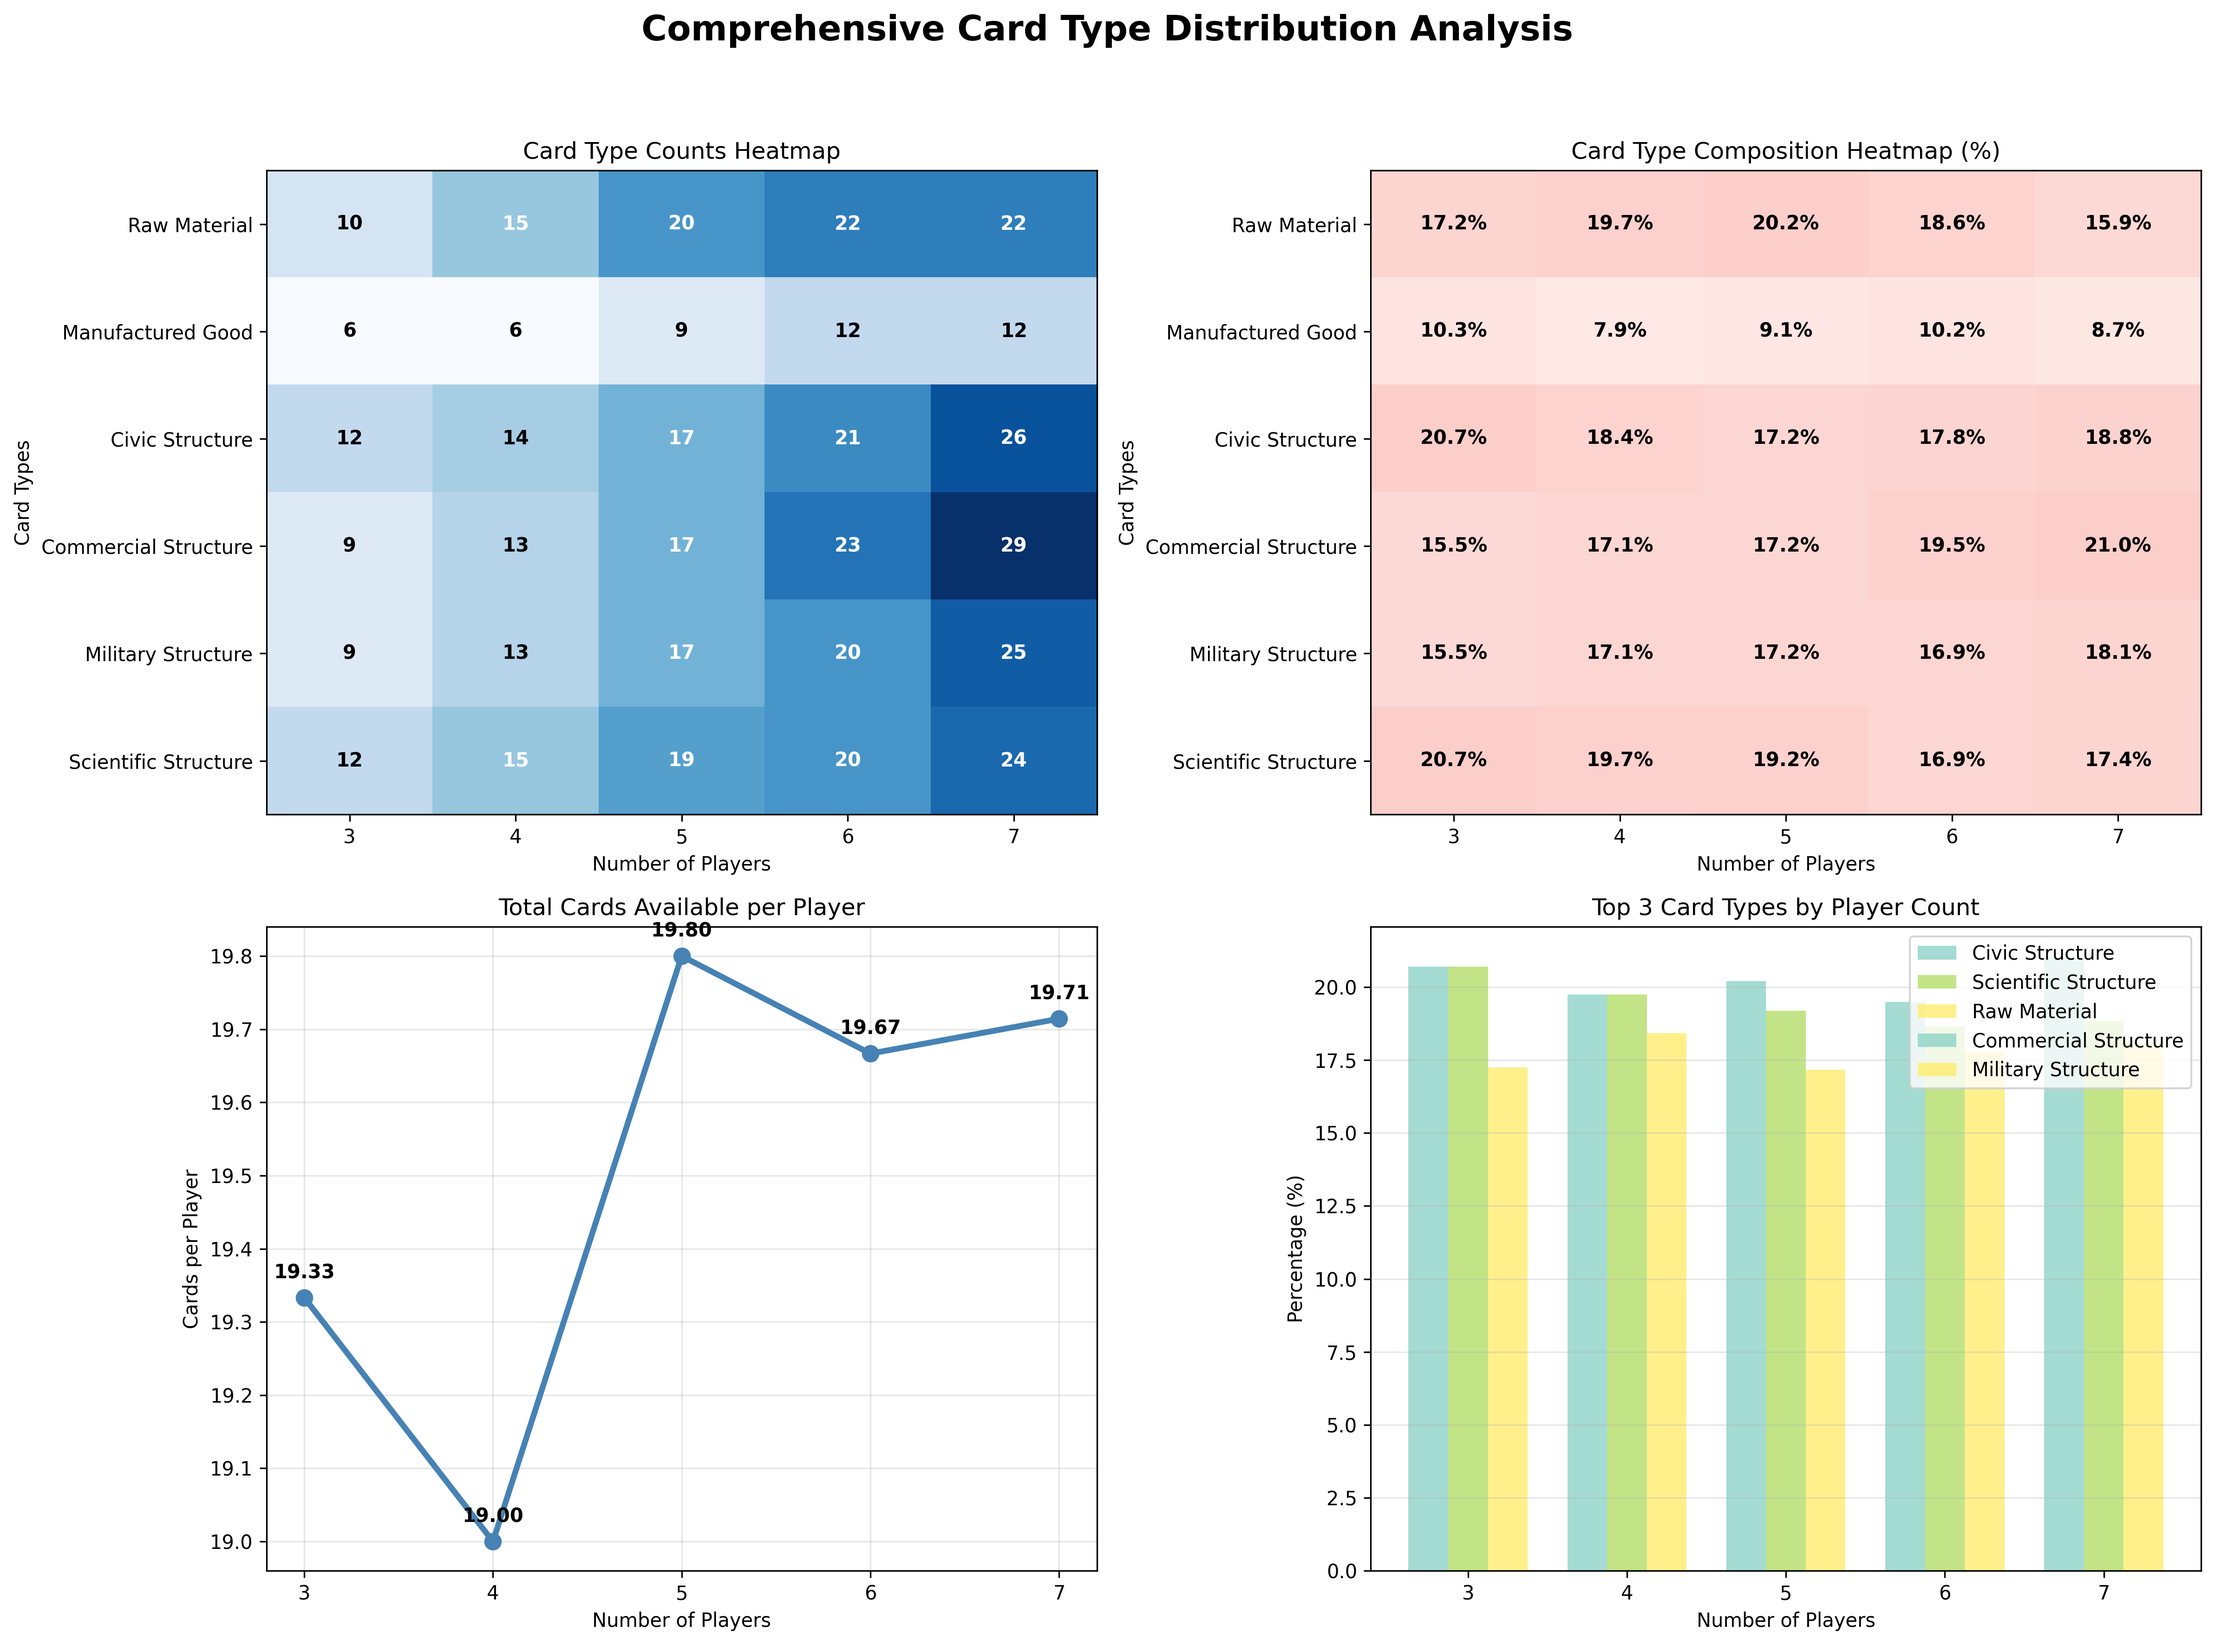
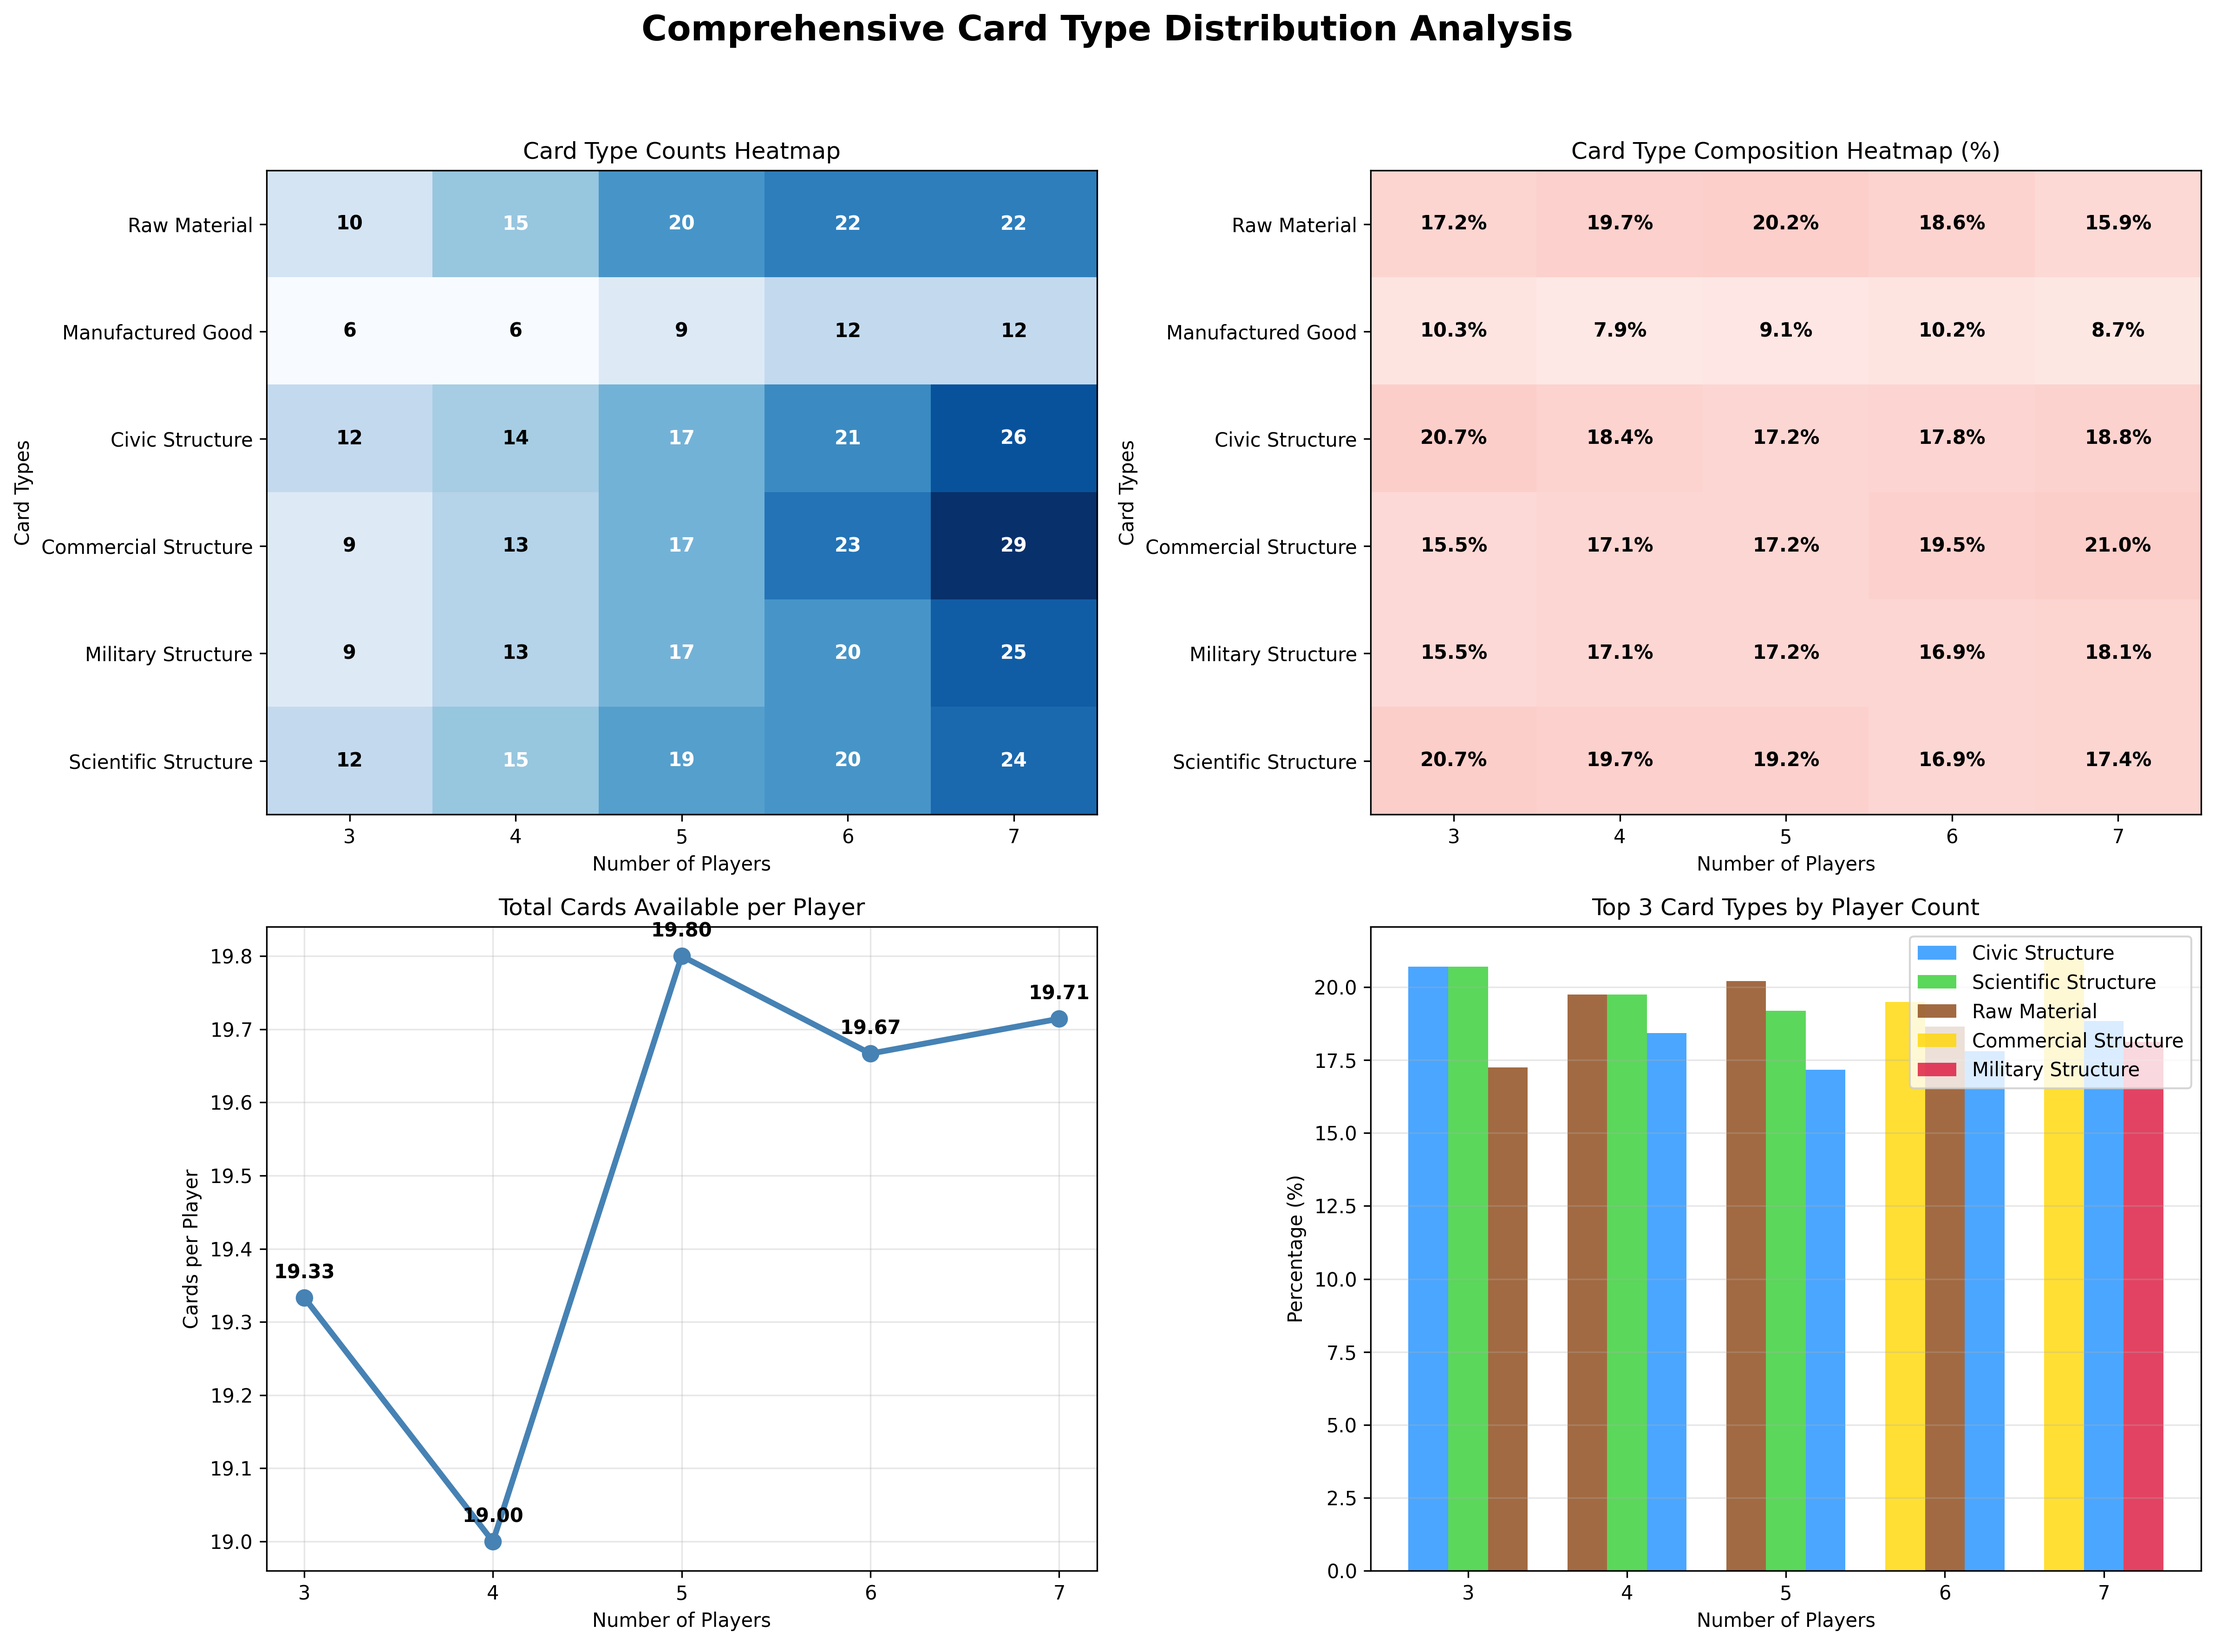
update card balance graphs

Changed region(s): [[0.6249, 0.5588, 0.9998, 0.9625]]

diff --git a/src/stats/card_balance.py b/src/stats/card_balance.py
@@ -191,28 +191,13 @@ def create_card_type_trends_chart(data):
 
 def create_card_type_comparison_chart(data):
     """Create chart comparing card availability per player"""
-    fig, (ax1, ax2) = plt.subplots(1, 2, figsize=(16, 6))
-    fig.suptitle('Card Availability Analysis', fontsize=16, fontweight='bold')
+    fig, ax = plt.subplots(figsize=(12, 8))
+    fig.suptitle('Cards per player by type', fontsize=16, fontweight='bold')
 
     player_counts = data['player_counts']
-    total_cards_per_player = data['total_cards_per_player']
     card_types = data['card_types']
 
-    # Subplot 1: Total cards per player
-    bars = ax1.bar(player_counts, total_cards_per_player,
-                   color='#4682B4', alpha=0.7, width=0.6)
-    ax1.set_xlabel('Number of Players', fontweight='bold')
-    ax1.set_ylabel('Cards per Player', fontweight='bold')
-    ax1.set_title('Average Cards Available per Player')
-    ax1.set_xticks(player_counts)
-    ax1.grid(True, alpha=0.3, axis='y')
-
-    # Add value labels
-    for bar, value in zip(bars, total_cards_per_player):
-        ax1.text(bar.get_x() + bar.get_width() / 2., value + 0.1,
-                 f'{value:.2f}', ha='center', va='bottom', fontweight='bold')
-
-    # Subplot 2: Cards per player by type (grouped bars)
+    # Cards per player by type (grouped bars)
     x = np.arange(len(player_counts))
     width = 0.12
     types = list(card_types.keys())
@@ -223,22 +208,22 @@ def create_card_type_comparison_chart(data):
         offset = offsets[i]
         cards_per_player = [count / players if players > 0 else 0.0
                             for count, players in zip(card_types[card_type_key], player_counts)]
-        bars = ax2.bar(x + offset, cards_per_player, width,
+        bars = ax.bar(x + offset, cards_per_player, width,
                        label=card_type_key.name.replace('_', ' ').title(),
                        color=color, alpha=0.8)
 
         for bar, value in zip(bars, cards_per_player):
             if value > 0.1:  # Only label if significant
-                ax2.text(bar.get_x() + bar.get_width() / 2., value + 0.02,
+                ax.text(bar.get_x() + bar.get_width() / 2., value + 0.02,
                          f'{value:.2f}', ha='center', va='bottom', fontsize=7)
 
-    ax2.set_xlabel('Number of Players', fontweight='bold')
-    ax2.set_ylabel('Cards per Player', fontweight='bold')
-    ax2.set_title('Cards per Player by Type\n(Grouped Bars)')
-    ax2.set_xticks(x)
-    ax2.set_xticklabels(player_counts)
-    ax2.legend(bbox_to_anchor=(1.05, 1), loc='upper left')
-    ax2.grid(True, alpha=0.3, axis='y')
+    ax.set_xlabel('Number of Players', fontweight='bold')
+    ax.set_ylabel('Cards per Player', fontweight='bold')
+    ax.set_title('Cards per Player by Type\n(Grouped Bars)')
+    ax.set_xticks(x)
+    ax.set_xticklabels(player_counts)
+    ax.legend(bbox_to_anchor=(1.05, 1), loc='upper left')
+    ax.grid(True, alpha=0.3, axis='y')
 
     plt.tight_layout(rect=[0, 0, 1, 0.95])
     return fig

diff --git a/doc/results.md b/doc/results.md
@@ -159,6 +159,12 @@ What is an avarage city card type distribution?
 
 This was explored in `card_balance.py`
 
+![card distribution](./../src/stats/assets/card_balance/card_availability.png)
+![card distribution average](./../src/stats/assets/card_balance/average_card_distribution.png)
+
+This shows that an average distribution across all games for every card type is for every city/player to have 3/4 of every card type, with the exception of manufactured goods card, which would be present 1/2 per city/player.
+
+
 ### Card Type Distribution Summary
 
 3 players:
@@ -217,71 +223,13 @@ This was explored in `card_balance.py`
     Scientific Structure: 24 (17.4%)
 
 #### Average Card Distribution per Player (Across All Player Counts)
-  Commercial Structure: 18.20 cards per player
-  Civic Structure: 18.00 cards per player
-  Scientific Structure: 18.00 cards per player
-  Raw Material: 17.80 cards per player
-  Military Structure: 16.80 cards per player
-  Manufactured Good: 9.00 cards per player
-  Total average cards per player: 97.80
-
-### Card Type Distribution Summary ===
-
-3 players:
-  Total cards: 58
-  Cards per player: 19.33
-  Card Type Breakdown:
-    Raw Material: 10 (17.2%)
-    Manufactured Good: 6 (10.3%)
-    Civic Structure: 12 (20.7%)
-    Commercial Structure: 9 (15.5%)
-    Military Structure: 9 (15.5%)
-    Scientific Structure: 12 (20.7%)
-
-4 players:
-  Total cards: 76
-  Cards per player: 19.00
-  Card Type Breakdown:
-    Raw Material: 15 (19.7%)
-    Manufactured Good: 6 (7.9%)
-    Civic Structure: 14 (18.4%)
-    Commercial Structure: 13 (17.1%)
-    Military Structure: 13 (17.1%)
-    Scientific Structure: 15 (19.7%)
-
-5 players:
-  Total cards: 99
-  Cards per player: 19.80
-  Card Type Breakdown:
-    Raw Material: 20 (20.2%)
-    Manufactured Good: 9 (9.1%)
-    Civic Structure: 17 (17.2%)
-    Commercial Structure: 17 (17.2%)
-    Military Structure: 17 (17.2%)
-    Scientific Structure: 19 (19.2%)
-
-6 players:
-  Total cards: 118
-  Cards per player: 19.67
-  Card Type Breakdown:
-    Raw Material: 22 (18.6%)
-    Manufactured Good: 12 (10.2%)
-    Civic Structure: 21 (17.8%)
-    Commercial Structure: 23 (19.5%)
-    Military Structure: 20 (16.9%)
-    Scientific Structure: 20 (16.9%)
-
-7 players:
-  Total cards: 138
-  Cards per player: 19.71
-  Card Type Breakdown:
-    Raw Material: 22 (15.9%)
-    Manufactured Good: 12 (8.7%)
-    Civic Structure: 26 (18.8%)
-    Commercial Structure: 29 (21.0%)
-    Military Structure: 25 (18.1%)
-    Scientific Structure: 24 (17.4%)
-
+  Scientific Structure: 3.66 cards per player
+  Civic Structure: 3.62 cards per player
+  Raw Material: 3.58 cards per player
+  Commercial Structure: 3.53 cards per player
+  Military Structure: 3.31 cards per player
+  Manufactured Good: 1.80 cards per player
+  Total average cards per player (sum over types): 19.50
 
 ## Card cost
 
